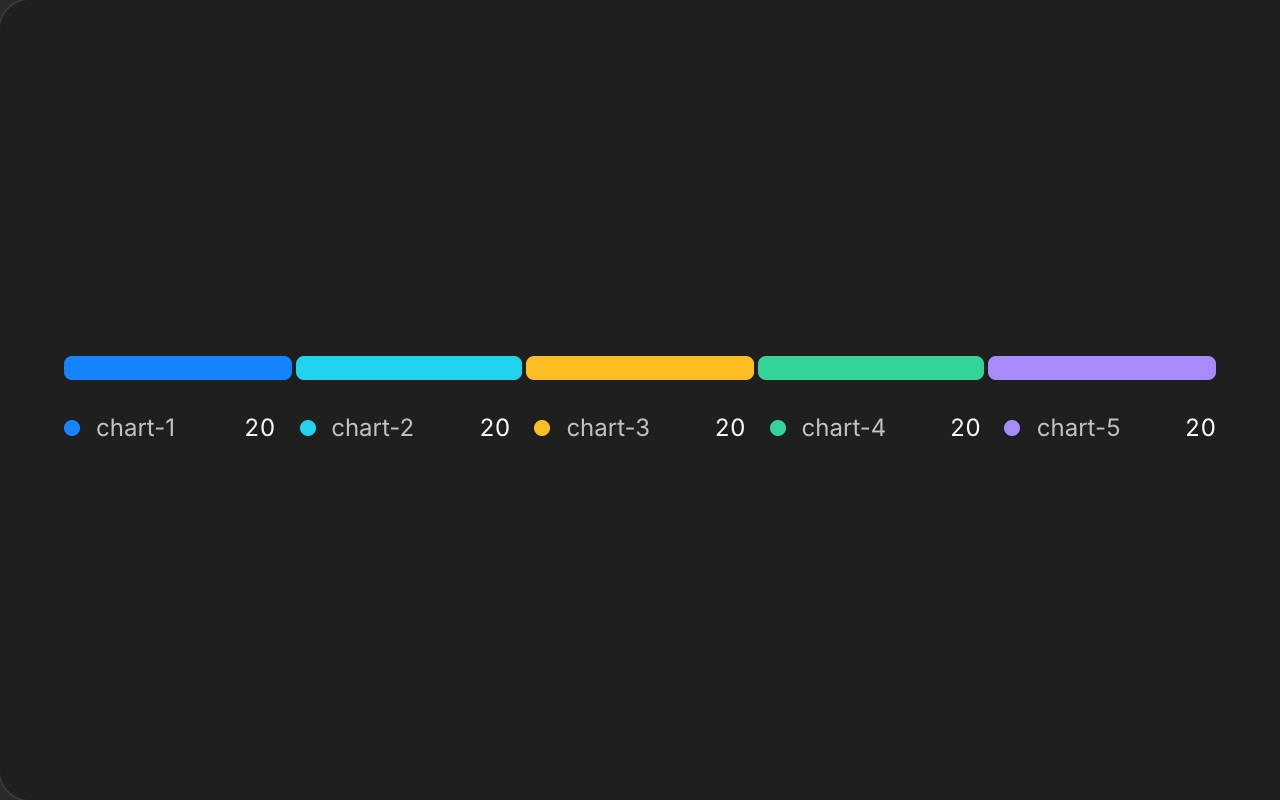
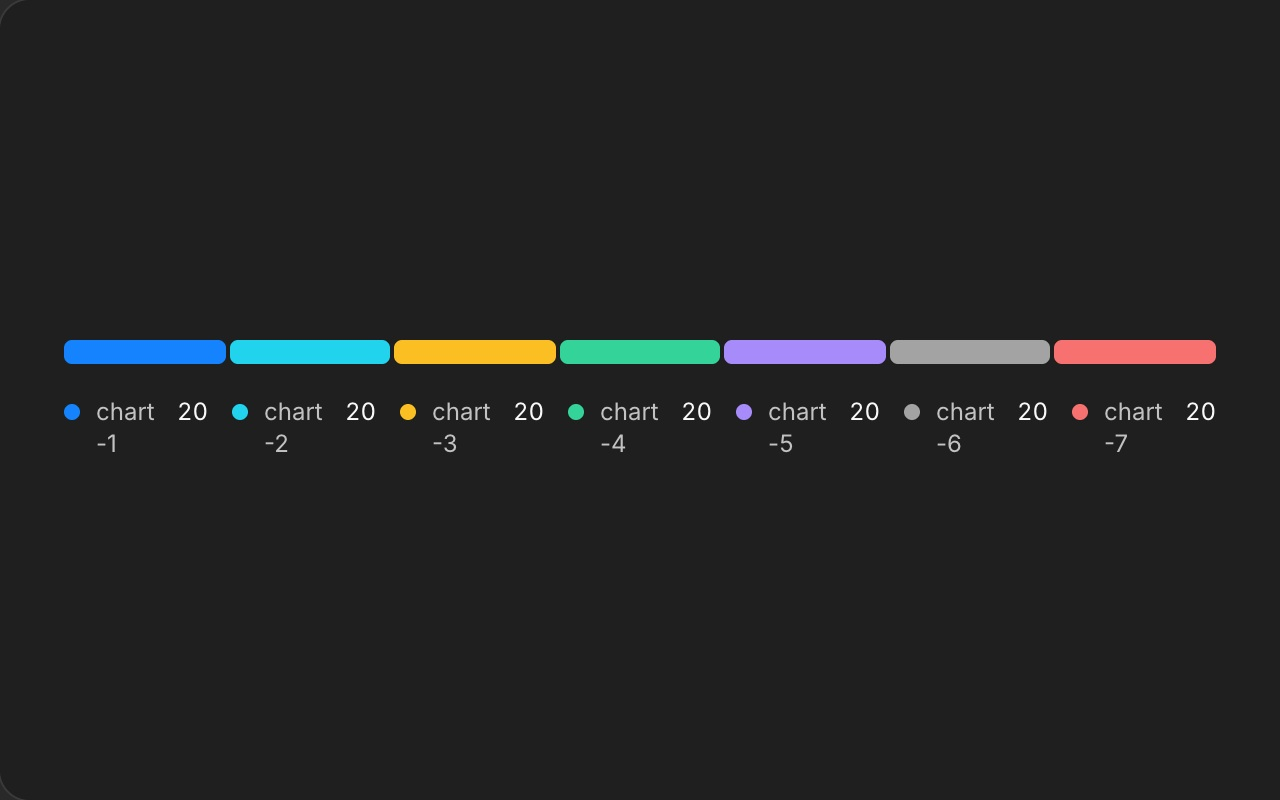
feat(charts): add neutral and danger color tokens
Add chart-6 for unknown or unused states and chart-7 for errors or failures, with light and dark theme values. Extend explicit chart color indices while retaining the five-color categorical fallback.

Update bilingual documentation, agent guides, previews, and generated token and registry artifacts. Validate token generation, chart color behavior, theme overrides, and responsive previews.

Changed region(s): [[0.0312, 0.4062, 0.9688, 0.5625]]

diff --git a/docs/pages/components/chart-tokens/page.tsx b/docs/pages/components/chart-tokens/page.tsx
@@ -11,18 +11,18 @@ import { ScrollArea } from "@zeron/ui/scroll-area";
 import { componentColorTokens } from "@zeron/ui/tokens/semantic-tokens.mjs";
 
 type ChartToken = { name: string; light: string; dark: string };
-const palette: ChartToken[] = componentColorTokens.filter((token: ChartToken) => /^chart-[1-5]$/.test(token.name));
+const palette: ChartToken[] = componentColorTokens.filter((token: ChartToken) => /^chart-[1-7]$/.test(token.name));
 const paletteCode = `import { ChartLegend, SegmentedBar, chartColor } from "@zeron/ui/chart-primitives";
 
-const segments = [1, 2, 3, 4, 5].map((index) => ({
+const segments = [1, 2, 3, 4, 5, 6, 7].map((index) => ({
   id: \`chart-\${index}\`, label: \`chart-\${index}\`, value: 20,
-  color: chartColor(index as 1 | 2 | 3 | 4 | 5),
+  color: chartColor(index as 1 | 2 | 3 | 4 | 5 | 6 | 7),
 }));
 
 export function ChartPalette() {
   return <div className="grid gap-4">
-    <SegmentedBar mode="distribution" total={100}
-      segments={segments} valueText="Five chart slots, 20 each" />
+    <SegmentedBar mode="distribution" total={140}
+      segments={segments} valueText="Seven chart slots, 20 each" />
     <ChartLegend items={segments} />
   </div>;
 }`;
@@ -86,8 +86,8 @@ export default function ChartTokensDoc() {
       <div data-component-cover-source>
         <ComponentPreview code={paletteCode}>
           <div className="grid w-full min-w-0 gap-4">
-            <SegmentedBar mode="distribution" total={100} segments={segments} valueText={t("paletteLabel")} />
-            <ChartLegend className="grid-cols-1 sm:grid-cols-5" items={segments} />
+            <SegmentedBar mode="distribution" total={140} segments={segments} valueText={t("paletteLabel")} />
+            <ChartLegend className="grid-cols-1 sm:grid-cols-4 xl:grid-cols-7" items={segments} />
           </div>
         </ComponentPreview>
       </div>
@@ -110,8 +110,8 @@ export default function ChartTokensDoc() {
     <DocSection title={t("layersTitle")}>
       <p className="text-body text-fg-muted">{t("layersBody")}</p>
       <PropsTable labels={{ prop: t("token"), type: t("layer"), default: t("token"), description: t("usage") }} props={[
-        { name: "--chart-1 … --chart-5", type: t("globalLayer"), description: t("globalUsage") },
-        { name: "--color-chart-1 … --color-chart-5", type: t("utilityLayer"), description: t("utilityUsage") },
+        { name: "--chart-1 … --chart-7", type: t("globalLayer"), description: t("globalUsage") },
+        { name: "--color-chart-1 … --color-chart-7", type: t("utilityLayer"), description: t("utilityUsage") },
         { name: "--color-<series>", type: t("instanceLayer"), description: t("instanceUsage") },
       ]} />
     </DocSection>

diff --git a/packages/ui/src/components/chart-primitives.tsx b/packages/ui/src/components/chart-primitives.tsx
@@ -4,17 +4,19 @@ import type { ComponentPropsWithoutRef, ReactNode } from "react";
 import type { BadgeColor } from "#components/badge";
 import { cn } from "#system/utils";
 
+export type ChartColorIndex = 1 | 2 | 3 | 4 | 5 | 6 | 7;
 /** Categories never imply health. Stable IDs, rather than list positions, select a color. */
-export type ChartColorIndex = 1 | 2 | 3 | 4 | 5;
 export const chartCategoricalColors = ["var(--chart-1)", "var(--chart-2)", "var(--chart-3)", "var(--chart-4)", "var(--chart-5)"] as const;
+/** Slots 6 and 7 are reserved for explicit neutral and danger states. */
+const chartColors = [...chartCategoricalColors, "var(--chart-6)", "var(--chart-7)"] as const;
 export const chartStatusColors = { success: "var(--fg-success)", warning: "var(--fg-warning)", danger: "var(--fg-danger)", info: "var(--fg-info)", neutral: "var(--fg-neutral-status)" } as const;
 
 function isChartColorIndex(index: unknown): index is ChartColorIndex {
-  return typeof index === "number" && Number.isInteger(index) && index >= 1 && index <= 5;
+  return typeof index === "number" && Number.isInteger(index) && index >= 1 && index <= chartColors.length;
 }
 
 export function chartColor(index: ChartColorIndex) {
-  return isChartColorIndex(index) ? chartCategoricalColors[index - 1] : chartCategoricalColors[0];
+  return isChartColorIndex(index) ? chartColors[index - 1] : chartColors[0];
 }
 
 const legacyChartIndices = {

diff --git a/tests/chart-unification.test.tsx b/tests/chart-unification.test.tsx
@@ -42,7 +42,15 @@ describe("共享调色与格式契约", () => {
     for (const value of ["missing", "toString", "__proto__", null]) expect(chartLegacyColor(value as BadgeColor)).toBeUndefined();
   });
 
-  it.each([0, 6, -1, 1.5, NaN, Infinity, "2", null])("非法索引 %s 不生成缺失的 CSS 变量", (index) => {
+  it.each([6, 7] as const)("状态槽位 %s 可显式使用，自动分类仍保留前五色", (index) => {
+    expect(chartColor(index)).toBe(`var(--chart-${index})`);
+    expect(chartSeriesColor("state", { colorIndex: index, color: "teal" })).toBe(chartColor(index));
+    for (let entity = 0; entity < 100; entity++) {
+      expect(chartCategoricalColors).toContain(chartSeriesColor(`entity-${entity}`));
+    }
+  });
+
+  it.each([0, 8, -1, 1.5, NaN, Infinity, "2", null])("非法索引 %s 不生成缺失的 CSS 变量", (index) => {
     expect(chartColor(index as ChartColorIndex)).toBe(chartColor(1));
     expect(chartSeriesColor("model", { colorIndex: index as ChartColorIndex, color: "teal" })).toBe(chartColor(4));
     expect(chartSeriesColor("model", { colorIndex: index as ChartColorIndex, color: "missing" as BadgeColor })).toBe(chartSeriesColor("model"));

diff --git a/app/globals.css b/app/globals.css
@@ -116,6 +116,8 @@
   --chart-3: light-dark(#F59E0B, #FBBF24);
   --chart-4: light-dark(#10B981, #34D399);
   --chart-5: light-dark(#8B5CF6, #A78BFA);
+  --chart-6: light-dark(#D4D4D4, #A3A3A3);
+  --chart-7: light-dark(#EF4444, #F87171);
   --shadow-color: rgb(0 0 0 / 0.06);
   --dm-hi-base: rgba(255,255,255,0.01);
   --dm-hi-mid: rgba(255,255,255,0.02);
@@ -305,6 +307,8 @@
   --color-chart-3: var(--chart-3);
   --color-chart-4: var(--chart-4);
   --color-chart-5: var(--chart-5);
+  --color-chart-6: var(--chart-6);
+  --color-chart-7: var(--chart-7);
   --color-surface-base: var(--surface-base);
   --color-surface-raised: var(--surface-raised);
   --color-surface-floating: var(--surface-floating);

diff --git a/packages/tokens/tokens.css b/packages/tokens/tokens.css
@@ -97,6 +97,8 @@
   --chart-3: light-dark(#F59E0B, #FBBF24);
   --chart-4: light-dark(#10B981, #34D399);
   --chart-5: light-dark(#8B5CF6, #A78BFA);
+  --chart-6: light-dark(#D4D4D4, #A3A3A3);
+  --chart-7: light-dark(#EF4444, #F87171);
   --shadow-color: rgb(0 0 0 / 0.06);
   --dm-hi-base: rgba(255,255,255,0.01);
   --dm-hi-mid: rgba(255,255,255,0.02);
@@ -286,6 +288,8 @@
   --color-chart-3: var(--chart-3);
   --color-chart-4: var(--chart-4);
   --color-chart-5: var(--chart-5);
+  --color-chart-6: var(--chart-6);
+  --color-chart-7: var(--chart-7);
   --color-surface-base: var(--surface-base);
   --color-surface-raised: var(--surface-raised);
   --color-surface-floating: var(--surface-floating);

diff --git a/docs/agent-guides/components/chart-primitives.md b/docs/agent-guides/components/chart-primitives.md
@@ -15,8 +15,8 @@ related: [chart, badge]
 
 # Chart Primitives
 
-- `ChartColorIndex` 为 1–5；`chartColor(index)` 返回全局 `var(--chart-N)`，非法运行时索引回到槽位 1。五槽位采用 Panel 体系，当前顺序为主题蓝、青、琥珀、绿、紫，默认系列不含中性色，独立于 Badge 和品牌 Token。旧 gray 分类输入适配到默认槽位 1；中性色只用于结构。主系列显式用槽位 1，多系列固定映射。
-- `chartSeriesColor(id)` 按稳定 ID 取五槽位，不随重排、筛选和刷新变化，但允许碰撞。可选第二参数 `{ colorIndex, color }` 按有效索引 → 旧 Badge 分类色适配 → ID 兜底解析。`chartLegacyColor(color)` 仅供旧分类输入兼容，未知色名返回 undefined；不是危险状态映射。`chartStatusColors` 独立提供语义色。
+- `ChartColorIndex` 为 1–7；`chartColor(index)` 返回全局 `var(--chart-N)`，非法运行时索引回到槽位 1。前五槽位为主题蓝、青、琥珀、绿、紫，用于普通比较系列；槽位 6 为浅灰中性色，用于未知、未使用或未分配状态；槽位 7 为红色危险色，用于错误、失败或异常状态。图表色盘独立于 Badge 和品牌 Token。旧 gray 分类输入仍适配到默认槽位 1；中性状态须显式传槽位 6。主系列显式用槽位 1，多系列固定映射。
+- `chartSeriesColor(id)` 按稳定 ID 只取前五槽位，不随重排、筛选和刷新变化，但允许碰撞。可选第二参数 `{ colorIndex, color }` 按有效索引（1–7）→ 旧 Badge 分类色适配 → ID 兜底解析；状态槽位 6、7 必须显式指定。`chartLegacyColor(color)` 仅供旧分类输入兼容，未知色名返回 undefined；不是危险状态映射。`chartStatusColors` 独立提供语义色。
 - 图形、图例和关联控件共用同一变量引用，亮暗切换和全局覆盖自动生效。超过五项保留完整标签与数值，不能自动删减实体；必要时通过线型区分。
 - `createChartNumberFormatter(locale, options)` 保留未知为 —；percent 的输入为比例 0.15，而非百分数 15。金额的 micros/minor-unit 换算由业务层承担。`createChartTimeFormatter(locale, timeZone, options)` 显式指定时区，非法时间保持未知。
 - `ChartLegend` items 含 id/label/color/value/ratio，可选 pressed 提供真实显隐状态；默认静态，不创建隐式显隐状态。onSelect(id) 只执行宿主明确操作；需要显隐时由宿主维护 pressed 并将其应用到图表，组件不会修改数据。长名称换行，不依赖标题提示。占比不完整时由消费者传入 —。

diff --git a/docs/agent-guides/components/chart.md b/docs/agent-guides/components/chart.md
@@ -17,7 +17,7 @@ related: [chart-primitives, metric-card, time-range-histogram]
 
 `ChartContainer/config/ChartTooltip/ChartTooltipContent` 保留原有组合接口。`config` 的 key 使用 CSS 标识符，color/theme 使用可信 CSS 色值。ChartContainer 内只放一个 Recharts 图，不能嵌套 ResponsiveContainer，父容器应 min-w-0 且有可测量高度。`dataTable` 可提供 caption、columns、rows 和 summary，为专用图提供键盘可打开的数据表。
 
-普通主系列使用 `chartColor(1)`，比较系列显式配置 1–5 槽位；动态系列可用 `chartSeriesColor(id)` 稳定兜底，有限槽位允许碰撞。图形、图例和关联控件共用颜色。`color` 与 `theme` 显式覆盖仍生效；状态色和网格、文字、轨道独立于五色盘。
+普通主系列使用 `chartColor(1)`，比较系列显式配置 1–5 槽位；中性状态使用 `chartColor(6)`，错误或危险状态使用 `chartColor(7)`。动态系列可用 `chartSeriesColor(id)` 在前五色中稳定兜底，有限槽位允许碰撞。图形、图例和关联控件共用颜色。`color` 与 `theme` 显式覆盖仍生效；状态工具和网格、文字、轨道保持独立。
 
 `TimeSeriesChart` 是两个请求趋势消费者验证后的薄组合。data 每项为 `{ timestamp: number, values: Record<string, number | null> }`；series 含稳定 id、label 和可选 color。必填 locale/timeZone/label，domain 可指定真实时间窗口。formatValue 同时用于轴、Tooltip 和数据表。没有汇总、补零、排序、采样或隐式连线；单点保留标记、全零保留真实值、空数组显示无数据。dataSummary 由消费者本地化。绘图关闭非必要动画。
 

diff --git a/docs/agent-guides/blocks/project-monitor-01.md b/docs/agent-guides/blocks/project-monitor-01.md
@@ -47,7 +47,7 @@ export function ProjectPreview() {
 
 ## 组件与样式
 
-服务和存储分类可选 `colorIndex` 为 1–5，优先于原必填兼容字段 `color: BadgeColor`。共享工具将旧色名适配到全局槽位；透传到 StorageUsage 时同时保留索引。固定分位数 P50 / P95 / P99 使用槽位 1 / 2 / 3，图形与图例共用解析颜色，真实健康状态独立取色。
+服务和存储分类可选 `colorIndex` 为 1–7，普通分类使用前五色；槽位 6、7 仅在明确表达中性或危险状态时使用。索引优先于原必填兼容字段 `color: BadgeColor`。共享工具将旧色名适配到全局槽位；透传到 StorageUsage 时同时保留索引。固定分位数 P50 / P95 / P99 使用槽位 1 / 2 / 3，图形与图例共用解析颜色，真实健康状态独立取色。
 
 使用 Card、Tabs、InfoItem、Badge、StatusOverview、StorageUsage、MetricCard、Chart、Select、Button、Tooltip、Skeleton、Empty、Badge plain、Alert 和 InlineNotice。服务状态通过 StatusOverview 的 variant="activity" 呈现：名称、细竖条轨道和请求数在宽容器中同排，窄容器中轨道换行。灰色完整竖条表示空闲，较短竖条表示未知；Tooltip 保留准确计数和状态。请求趋势采用 TimeSeriesChart，环图采用 DonutSummary，服务图例采用 ChartLegend；缺失分桶保留断点和未知汇总，趋势数据可通过键盘展开。分位数比较保留专用条形图，与直方图共享分位数分类色但不合并模型。业务布局使用现有间距、字体、边框、阴影和语义颜色；未新增全局样式或色值。
 

diff --git a/docs/agent-guides/blocks/credit-usage-01.md b/docs/agent-guides/blocks/credit-usage-01.md
@@ -57,7 +57,7 @@ function BillingSummary() {
 - `currentCycle` 必填，`previousCycle` 可选。缺少上一周期时，对应 Tab 会禁用。
 - `projection` 是服务端或领域层给出的预测结果；Block 不自行预测耗尽日期。
 - `autoSwitch` 决定是否显示自动切换区域；目标模型、阈值和说明都由业务数据提供。
-- 模型可选 `colorIndex` 为 1–5，优先读取全局 Chart 槽位；原必填 `color: BadgeColor` 为兼容字段，适配到槽位，不再读取 Badge HEX。索引和旧色名都非法时按稳定模型 ID 兜底；不表达健康或告警。
+- 模型可选 `colorIndex` 为 1–7，普通模型分类使用前五色；槽位 6、7 仅在明确表达中性或危险状态时使用。原必填 `color: BadgeColor` 为兼容字段，适配到槽位，不再读取 Badge HEX。索引和旧色名都非法时按稳定模型 ID 在前五色中兜底。
 - 使用 `provider` 选择内置的 OpenAI、Claude 或 Gemini 品牌标识；私有模型通过 `logo` 传入真实的产品 Logo，未提供时使用通用模型图标。
 - 日期作为已格式化文本传入；数字与百分比根据 `locale` 格式化。
 - 使用 `formatters.usageSummary`、`formatters.progressValueText` 和 `formatters.autoSwitchTitle` 覆盖完整句子，避免本地化时受英文词序限制。

diff --git a/docs/agent-guides/blocks/storage-usage-01.md b/docs/agent-guides/blocks/storage-usage-01.md
@@ -22,7 +22,7 @@ import { StorageUsage, storageUsageDemoData } from "@/components/blocks/storage-
 <StorageUsage data={storageUsageDemoData} />
 ```
 
-- `data.capacity` and each item `value` share the chosen `unit` (default GB). Items have stable, unique IDs, labels, a legacy required `BadgeColor`, and optional `colorIndex` (1–5).
+- `data.capacity` and each item `value` share the chosen `unit` (default GB). Items have stable, unique IDs, labels, a legacy required `BadgeColor`, and optional `colorIndex` (1–7). Ordinary categories use slots 1–5; reserve explicit slots 6 and 7 for neutral and danger states.
 - Used capacity is derived from category values. Negative and nonfinite inputs normalize to zero. Never pass a separate inconsistent total.
 - Empty items show 0% and an empty track. Zero capacity with positive usage shows an unknown percentage. Over-capacity usage keeps its actual percentage; category proportions fit the filled track and remaining capacity is zero.
 - The reference's category labels do not sum to its summary; the demo preserves 94% of 20 GB with consistent, proportional category values. These are example data, not a backend integration.
